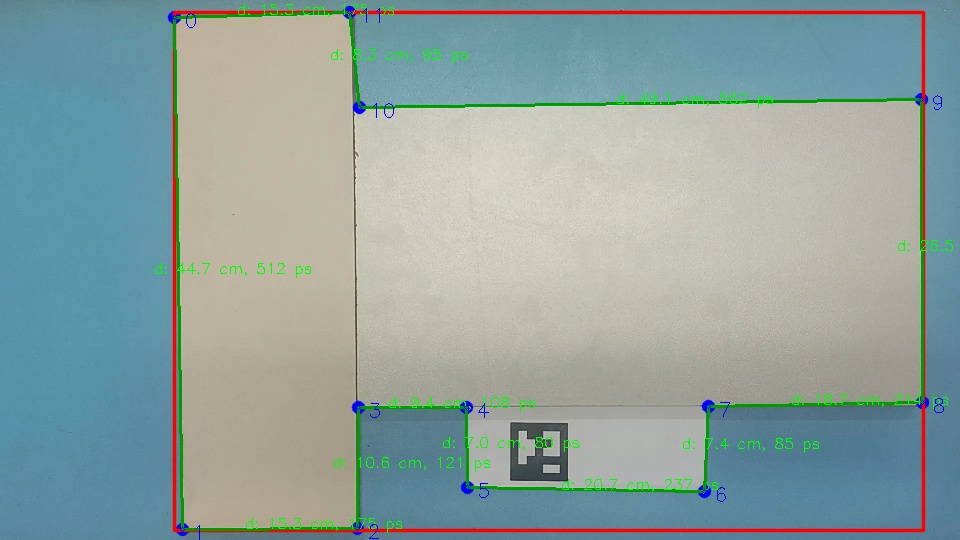
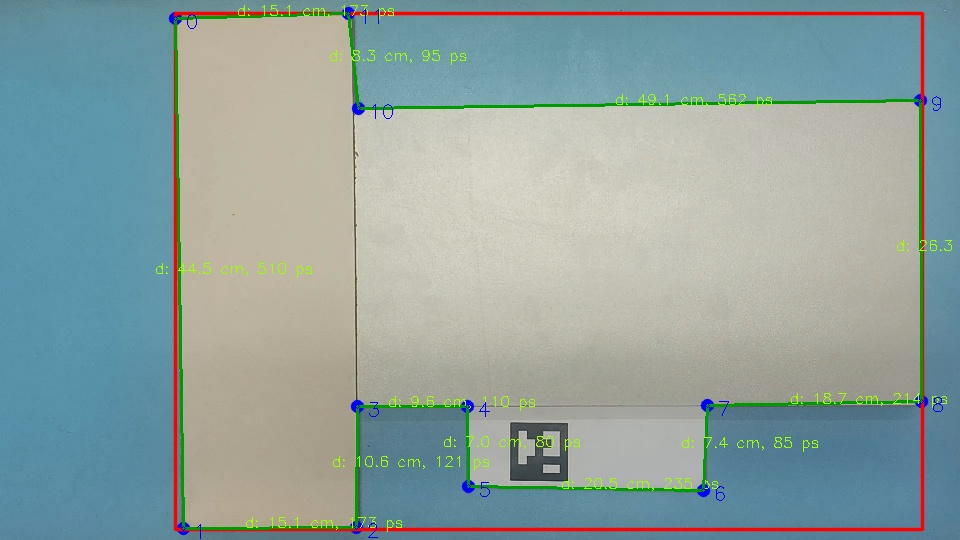
downgrade

Changed region(s): [[0.1562, 0.0, 1.0, 1.0]]

diff --git a/main.py b/main.py
@@ -1,26 +1,29 @@
 import cv2 as cv
-
 import numpy
 from utils.functions import get_ratio_pixels_millimeters, draw_corners, draw_enumerate, get_bounding_box, transform
 
 path = "./img/1.jpg"
 frame = cv.imread(path)
+
 original: numpy.ndarray = frame
+cv.imwrite('original.jpg', frame)
 threshold_minVal = 100
 threshold_maxVal = 250
 gaussian_kernel_size = (9, 9)
 dilatation = numpy.ones((3, 3))
 min_area_filter = 2000  # square pixels
-ratio = get_ratio_pixels_millimeters(img=frame)
+
 
 while True:
+    original = frame
+    cv.imshow('frame', frame)
+    ratio = get_ratio_pixels_millimeters(img=frame)
     frame = cv.cvtColor(frame, cv.COLOR_BGR2GRAY)
     frame = cv.GaussianBlur(frame, ksize=gaussian_kernel_size, sigmaX=1)
     frame = cv.Canny(image=frame, threshold1=threshold_minVal, threshold2=threshold_maxVal)
     frame = cv.dilate(frame, kernel=dilatation, iterations=2)
-    frame = cv.erode(frame, kernel=dilatation, iterations=1)
+    frame = cv.erode(frame, kernel=dilatation, iterations=2)
     contours, hierarchy = cv.findContours(frame, cv.RETR_EXTERNAL, cv.CHAIN_APPROX_SIMPLE)
-
     for contour in contours:
         area = cv.contourArea(contour)
         if area > min_area_filter:
@@ -28,14 +31,13 @@ while True:
             frame = cv.polylines(original, pts=clean_contour_points, isClosed=True, color=(255, 0, 0), thickness=12,
                                  lineType=cv.LINE_AA)
             bounding_box = get_bounding_box(img=frame, corners=clean_contour_points, draw=True)
-            draw_corners(img=frame, corners=clean_contour_points, ratio=ratio)
+            draw_corners(img=frame, corners=clean_contour_points, ratio=ratio, color=(0, 255, 155))
             draw_enumerate(img=frame, corners=clean_contour_points)
+            cv.imshow("Frame", frame)
+            cv.imwrite('output.jpg', frame)
             print(f"Normalized corners are: \n {transform(clean_contour_points, *bounding_box)}")
 
-    cv.imshow("Frame", frame)
-    cv.imwrite('output.jpg', frame)
     key = cv.waitKey(0)
     if key:
         break
-
 cv.destroyAllWindows()

diff --git a/utils/functions.py b/utils/functions.py
@@ -4,11 +4,12 @@ from typing import Tuple
 
 
 # noinspection PyUnresolvedReferences
+
 def get_ratio_pixels_millimeters(img: numpy.ndarray, aruco_type=cv.aruco.DICT_5X5_50) -> float:
-    parameters = cv.aruco.DetectorParameters()
+    parameters = cv.aruco.DetectorParameters_create()
     aruco_dict = cv.aruco.getPredefinedDictionary(aruco_type)
     marker_size = aruco_dict.markerSize * 4  # cm
-    corners, _, _ = cv.aruco.ArucoDetector(aruco_dict, parameters).detectMarkers(img)
+    corners, ids, _ = cv.aruco.detectMarkers(img, aruco_dict, parameters=parameters)
     aruco_perimeter = cv.arcLength(corners[0], True)
     return round(aruco_perimeter / marker_size, 7) / 100
 
